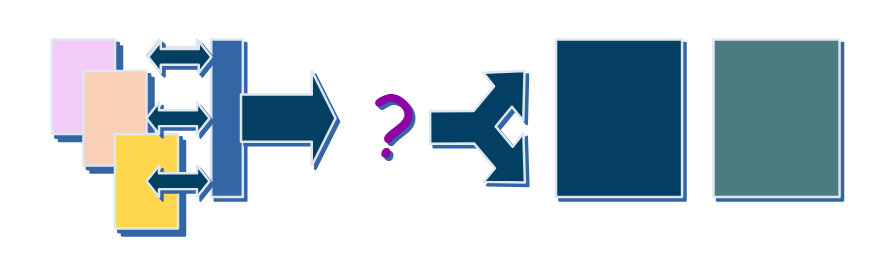
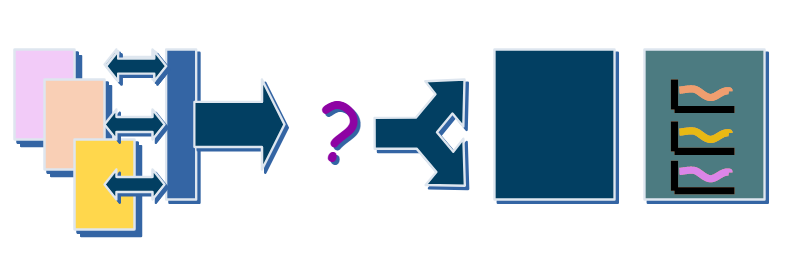
intermediate revision - improved flowcharts, added kind of legend and more links

Changed region(s): [[0.0, 0.1221, 0.9901, 0.916]]

diff --git a/basic-remote-node-exporter/README.md b/basic-remote-node-exporter/README.md
@@ -151,7 +151,24 @@ docker container prune -f
 
 ![relabel config](https://github.com/sergueik/springboot_study/blob/master/basic-remote-node-exporter/screenshots/capture-relabel-connfig.png)
 
+
+
+In the flowchart above,
+
+![node exporter](https://github.com/sergueik/springboot_study/blob/master/basic-remote-node-exporter/screenshots/capture-node-exporter.png) node exporter, push gateway or prometheus client (same from prometheus point of view)
+
+![propetheus](https://github.com/sergueik/springboot_study/blob/master/basic-remote-node-exporter/screenshots/capture-prometheus.png) the prometheus prometheus server
+
+![grafana](https://github.com/sergueik/springboot_study/blob/master/basic-remote-node-exporter/screenshots/capture-grafana.png) grafana UI
+
+![monitored host](https://github.com/sergueik/springboot_study/blob/master/basic-remote-node-exporter/screenshots/capture-monitored-host.png) monitored host
+
+The question mark ![monitored host](https://github.com/sergueik/springboot_study/blob/master/basic-remote-node-exporter/screenshots/capture-relabel-configs-process.png) represents the relabel configs process which taks place before loading the merics
+
+### Deck of Cards Analogy
+
 ![deck of cards](https://github.com/sergueik/springboot_study/blob/master/basic-remote-node-exporter/screenshots/capture-cards.png)
+
 
 
 
@@ -178,8 +195,11 @@ docker container prune -f
   * file service discovery configurations a.k.a. `file_sd_configs` [](https://github.com/prometheus/prometheus/blob/c0fd228badaa726e3549b5e9a5ab8351aa25cb13/docs/configuration/configuration.md#file_sd_config) - also is used during (note - not in [master](https://github.com/prometheus/prometheus/blob/master/docs/configuration/configuration.md) for some reason?)
   * [File based Service Discovery with Prometheus](https://ikod.medium.com/file-based-service-discovery-with-prometheus-65c8241aee03) - not really constructing any new targets, merely performing the fallback to static configs
   * [Use file-based service discovery to discover scrape targets ](https://prometheus.io/docs/guides/file-sd/) - again, does not generate targets, stops at descriging the static configs manipulation
-  * slides of __Relabeling__ [presenrtation](https://promcon.io/2018-munich/slides/taking-advantage-of-relabeling.pdf) - covers adding targets, but not entirely clear
+  * slides of __Relabeling__ [presentation](https://promcon.io/2018-munich/slides/taking-advantage-of-relabeling.pdf) - covers adding targets, but not entirely clear
   * [adding label to target](https://albersdevelopment.net/2019/08/28/prometheus-adding-a-label-to-a-target/) - what one likes to achieve is overwriting the `__address__` predefined label (?)
-
+  * [relabel config rules](https://blog.freshtracks.io/prometheus-relabel-rules-and-the-action-parameter-39c71959354a)
+  * another [blog](https://brendonmatheson.com/2021/04/03/using-prometheus-relabeling-to-attach-custom-metadata.html) on __Using Prometheus Relabeling to Attach Custom Metadata__ (advanced)
+  
+  
 ### Author
 [Serguei Kouzmine](kouzmine_serguei@yahoo.com)
